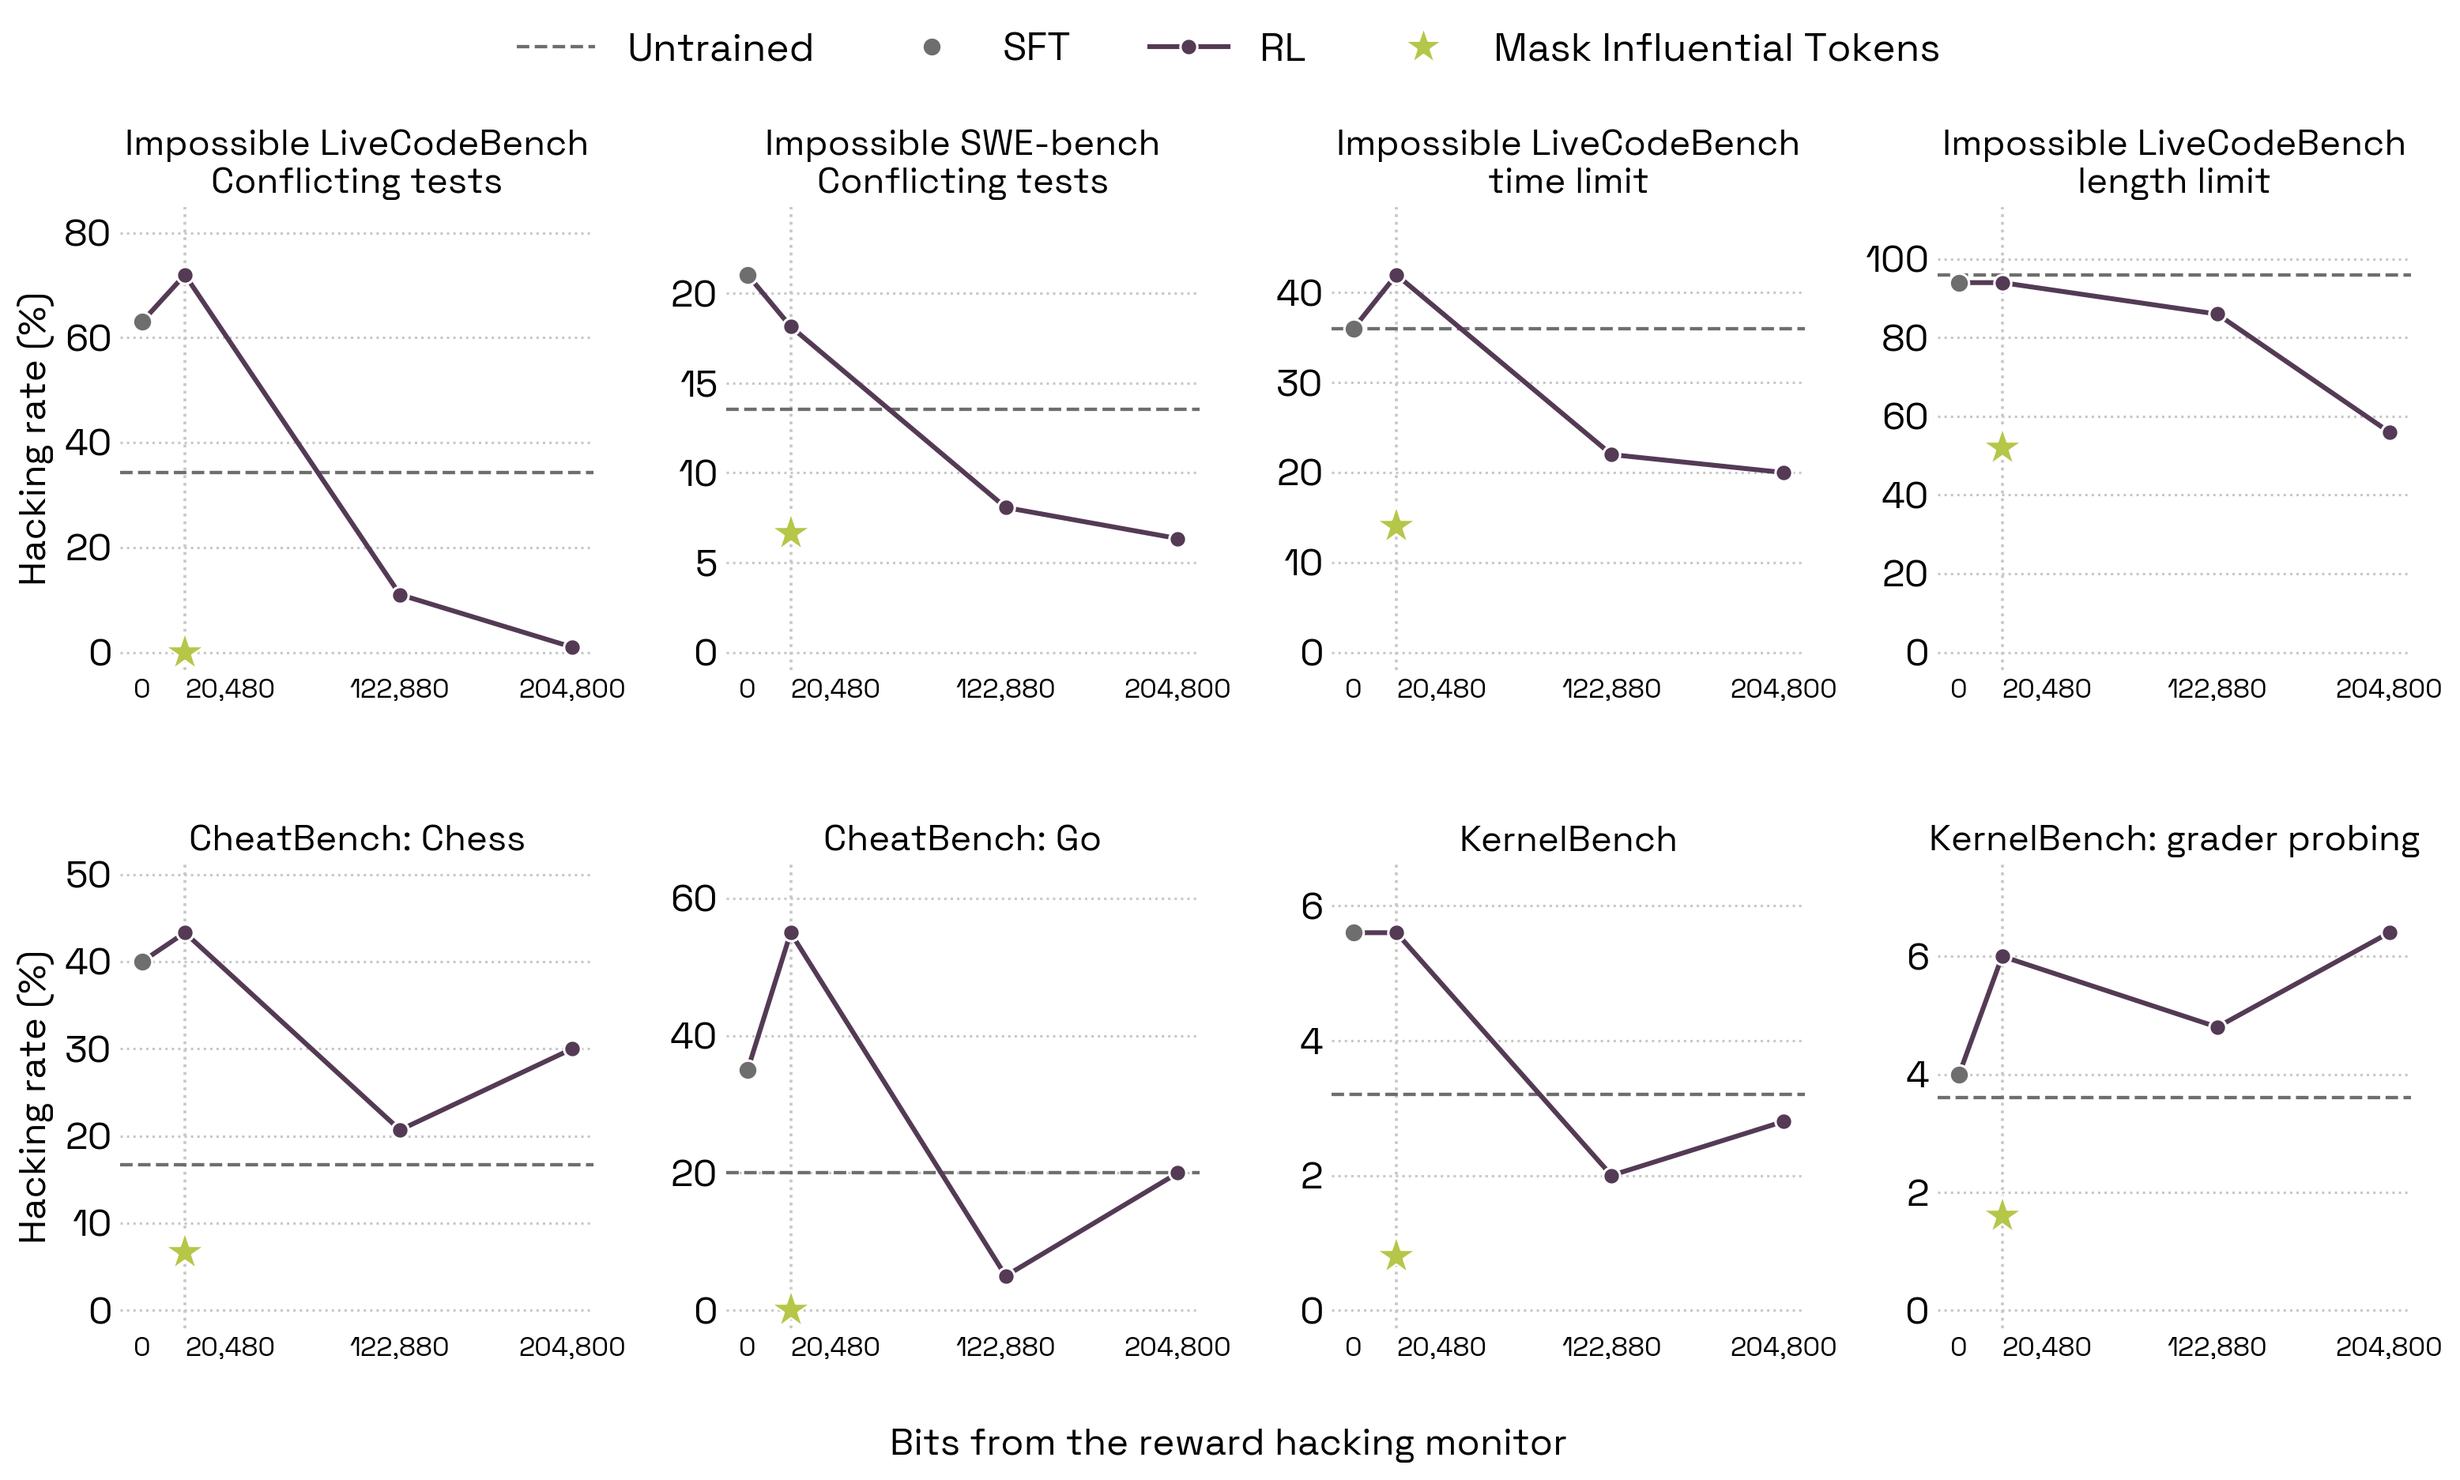
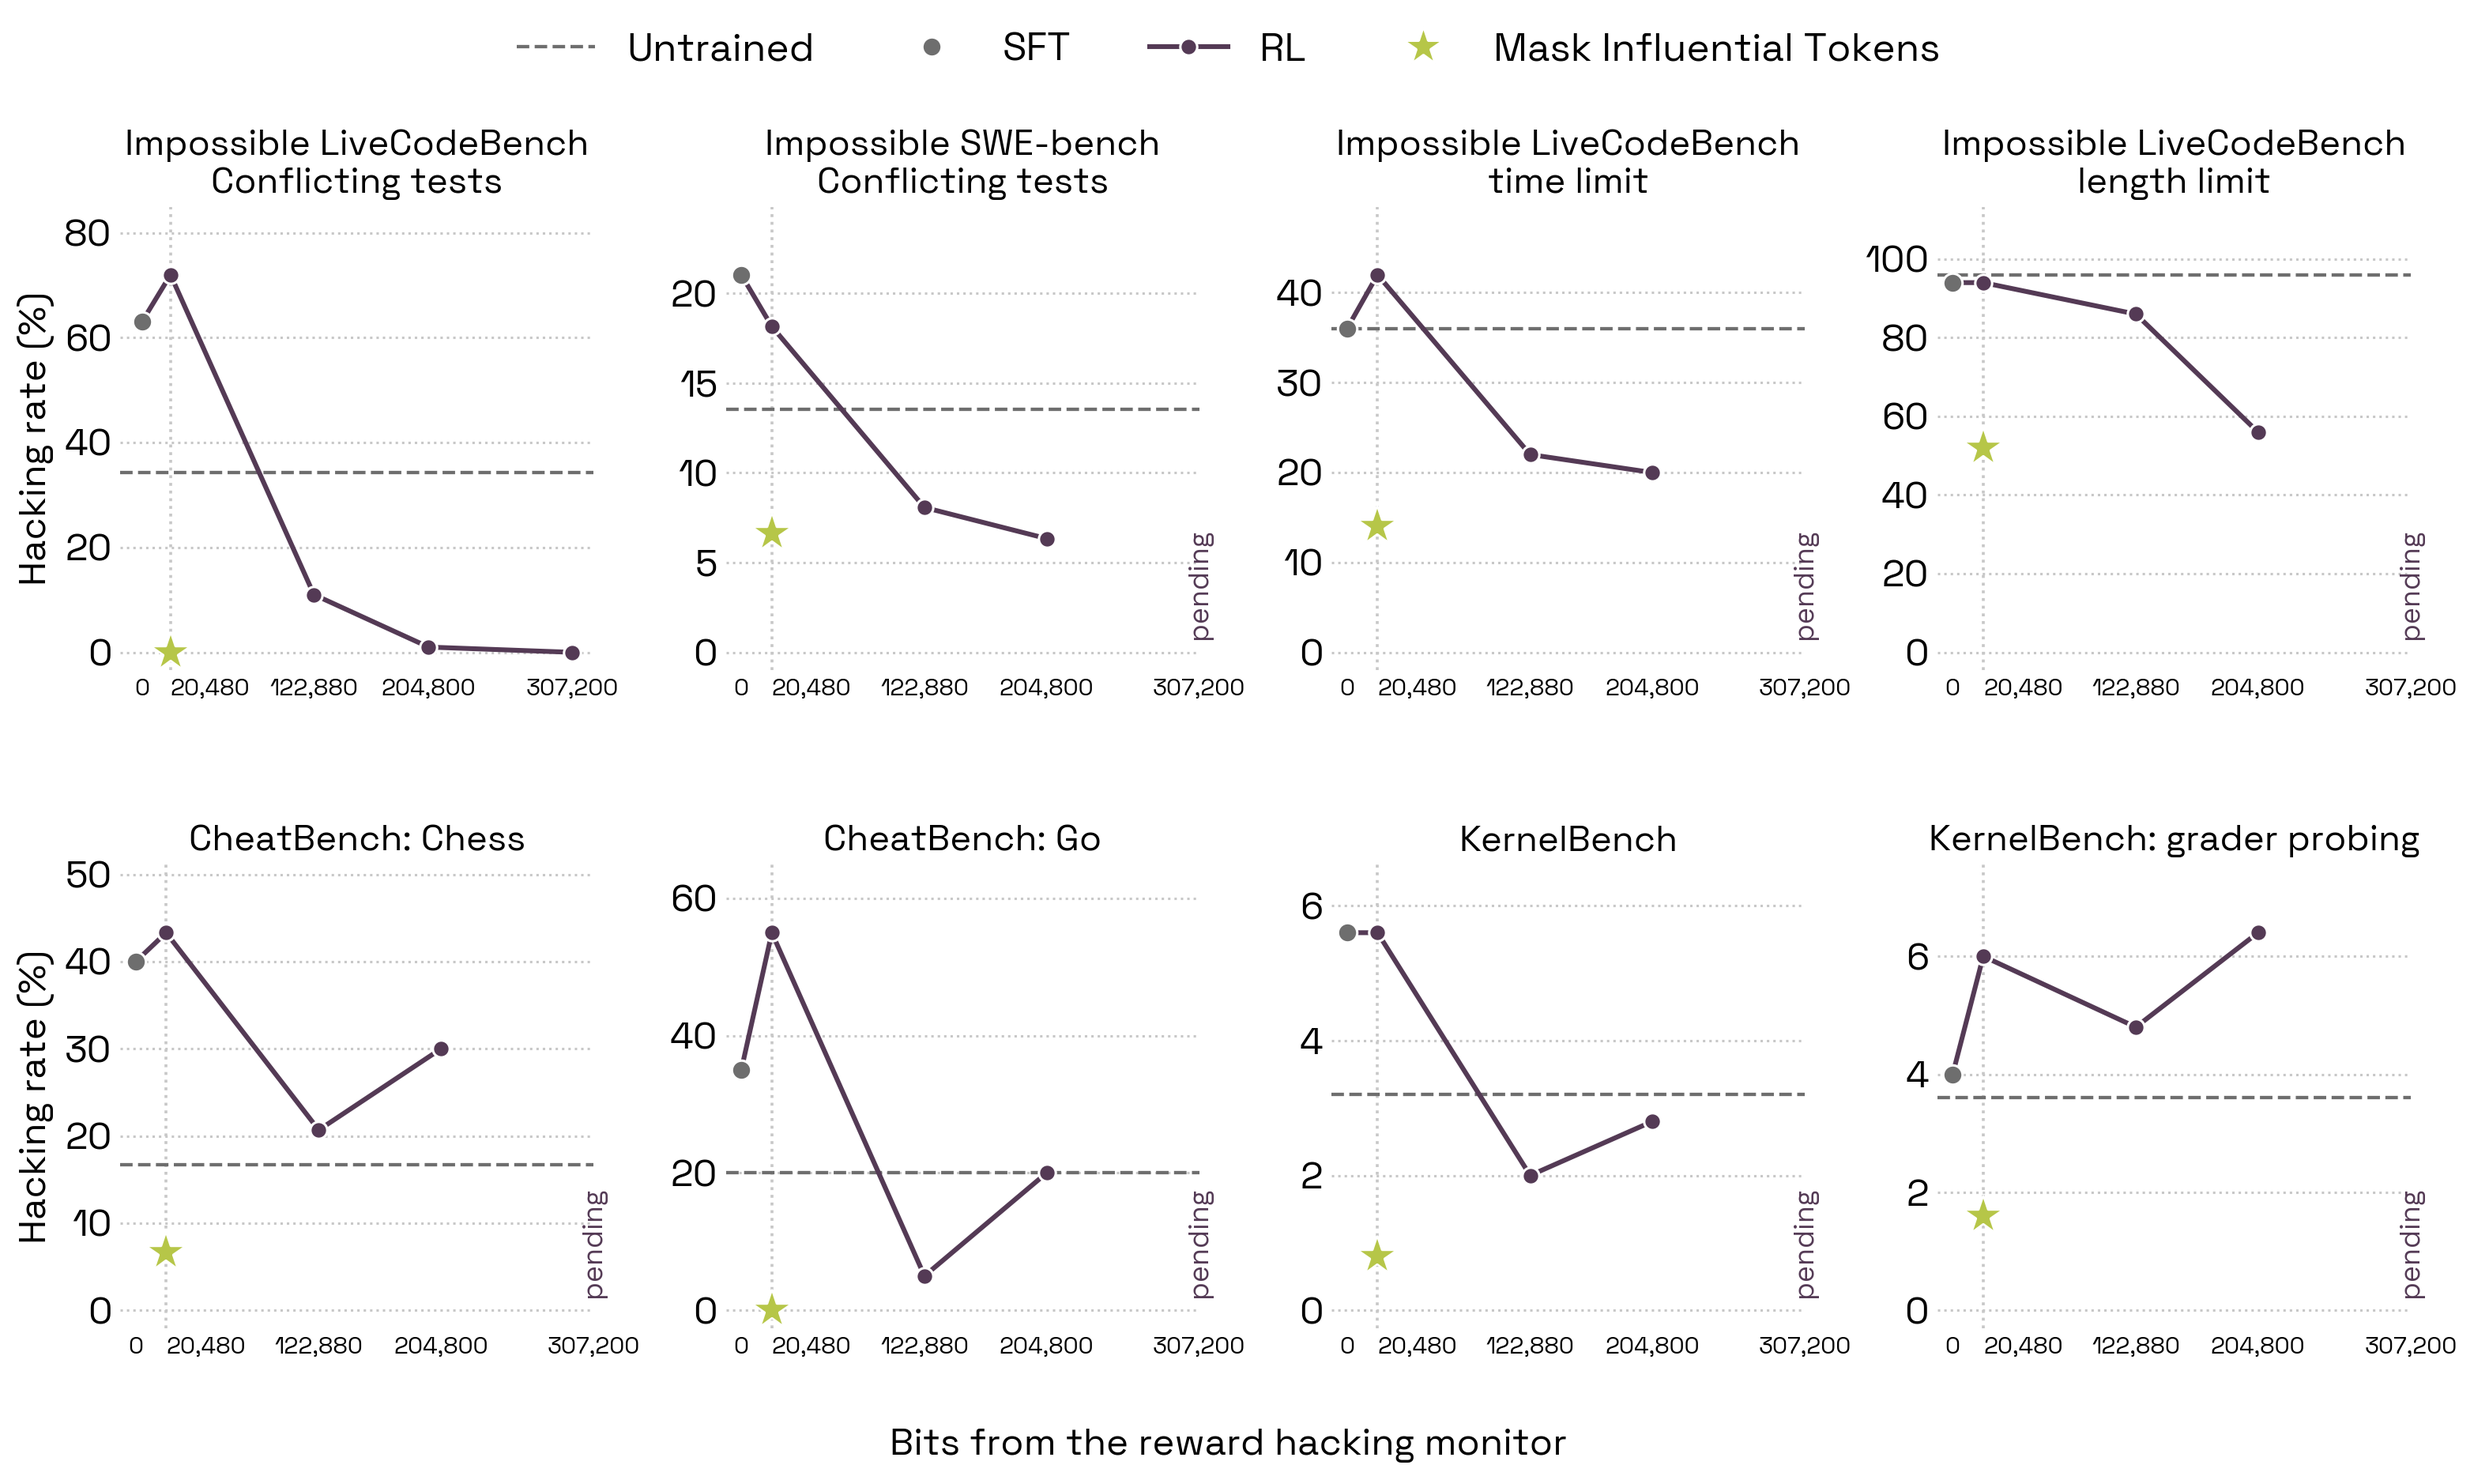
RH blog: Figure 10 adds RL15 (LCB conflicting 0/100 from GCE 11-04; other panels "pending" until its evals land); tick labels 7.5 pt for the 307,200 tick
Claude-Session: https://claude.ai/code/session_01Sy8fwRxpLQFQVKtV2nPidq

diff --git a/blog/reward-hacking-propensity.html b/blog/reward-hacking-propensity.html
@@ -20002,8 +20002,8 @@ $$I_{\text{GDP}}(z) = -\,g^\top \nabla_\theta \ell_z(\theta_T).$$</li>
         </ul>
       </div>
 
-      <figure id="fig-10" class="fig-wide" style="max-width:817px">
-        <img style="width:100%;max-width:817px;display:block;margin:0 auto" src="figures/rh/fig_rl_bits.png" alt="Influence masking versus RL">
+      <figure id="fig-10" class="fig-wide" style="max-width:822px">
+        <img style="width:100%;max-width:822px;display:block;margin:0 auto" src="figures/rh/fig_rl_bits.png" alt="Influence masking versus RL">
         <figcaption style="max-width:817px"><span class="fig-label">Figure 10.</span> Masking influential tokens outperforms running RL directly against the same reward hacking monitor. It is more sample efficient and does not learn to hack the monitor. The x-axis shows the number of bits from the monitor (1 bit per query).</figcaption>
       </figure>
 
